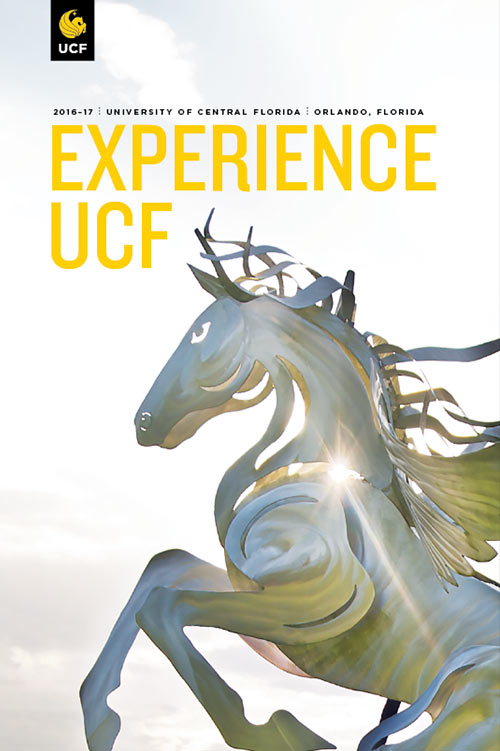
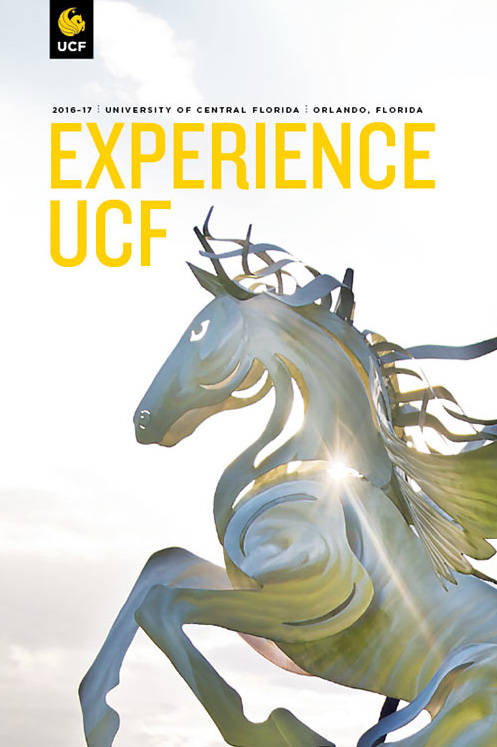
updated viewbook images and scroll click on gold cards

diff --git a/dev/admissions-page/admissions.js b/dev/admissions-page/admissions.js
@@ -28,7 +28,13 @@ var enableScrollSpy = function($) {
     var $target = $(this.hash);
     $target = $target.length ? $target : $('[name=' + this.hash.slice() + ']');
 
-    var scrollTo = $target.offset().top - 50;
+    var scrollTo = $target.offset().top;
+
+    if ($('#sections-menu').length > 0) {
+      scrollTo = scrollTo - $('#sections-menu').height() + 20;
+    }
+
+    var scrollTo = scrollTo - 150;
 
     if ($target.length) {
       $('html, body').animate({
